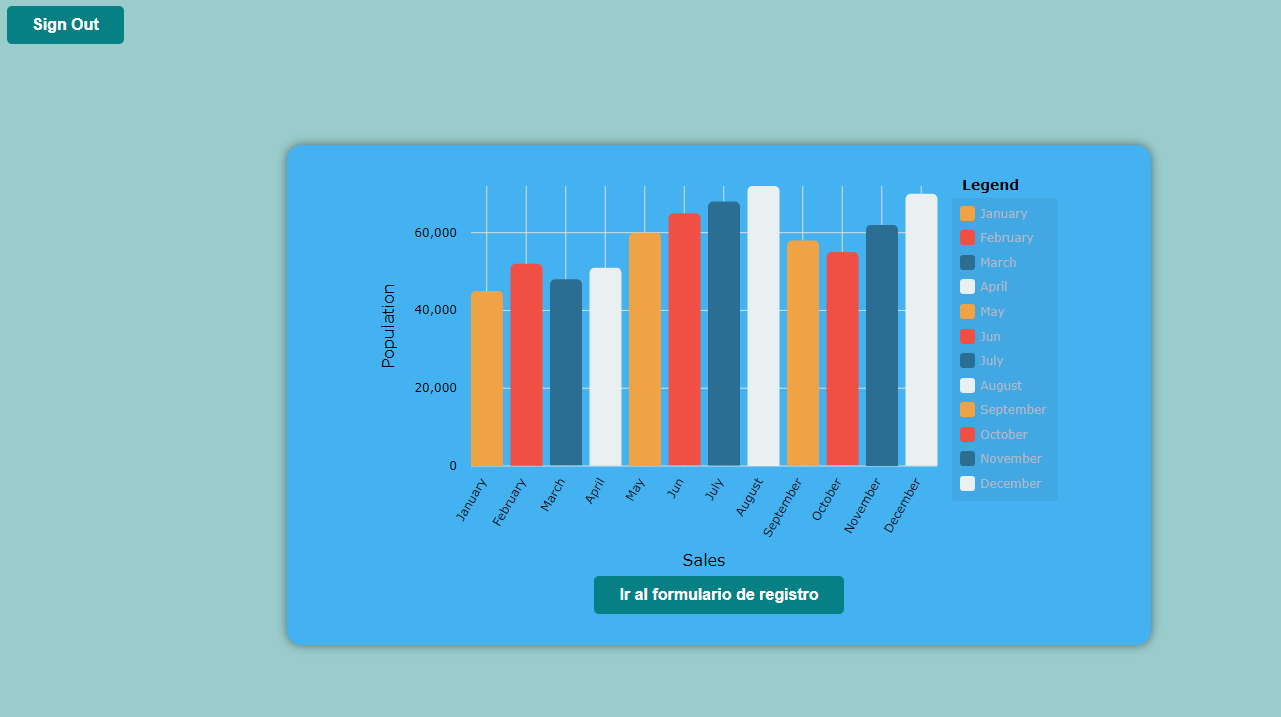
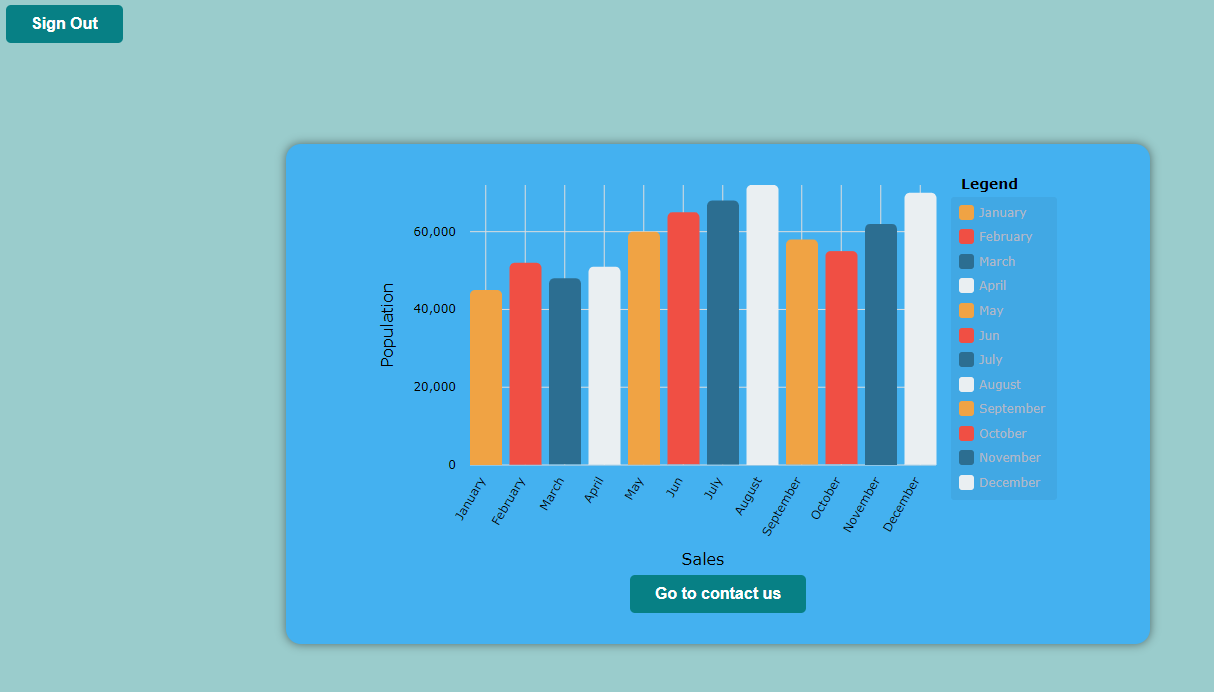
refactor button text to form

Changed region(s): [[0.2743, 0.2428, 0.8534, 0.7587], [0.2133, 0.1821, 0.9753, 0.9408], [0.0305, 0.0, 0.1219, 0.0607]]

diff --git a/client/src/app/dashboard/dashboard.component.html b/client/src/app/dashboard/dashboard.component.html
@@ -15,6 +15,6 @@
       [yAxisLabel]="yAxisLabel"
       (select)="onSelect($event)">
     </ngx-charts-bar-vertical>
-    <button class="form-button" (click)="getForm()">Ir al formulario de registro</button>
+    <button class="form-button" (click)="getForm()">Go to contact us</button>
   </div>
 </div>
